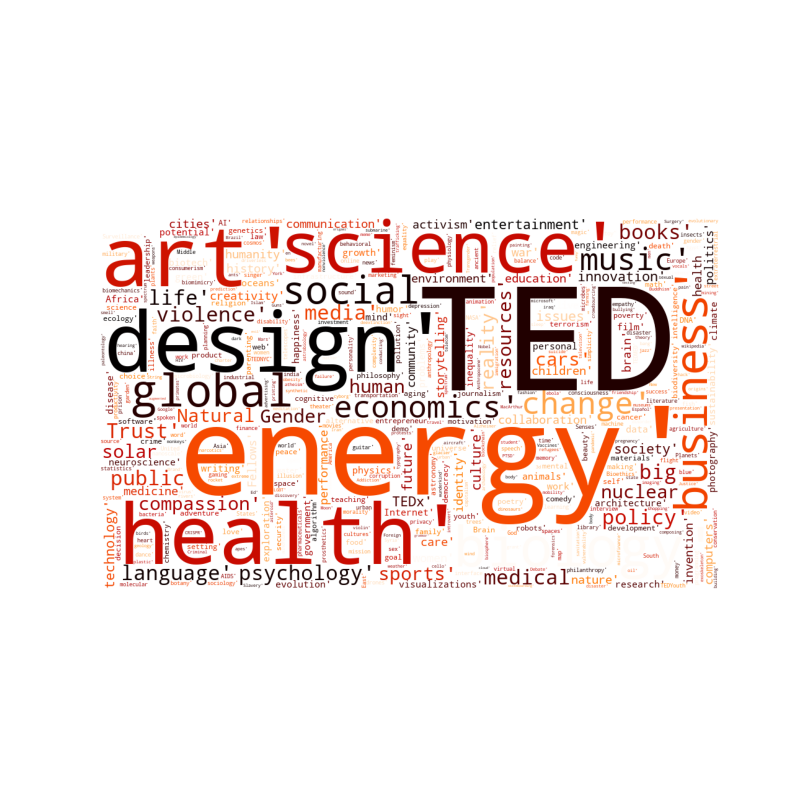
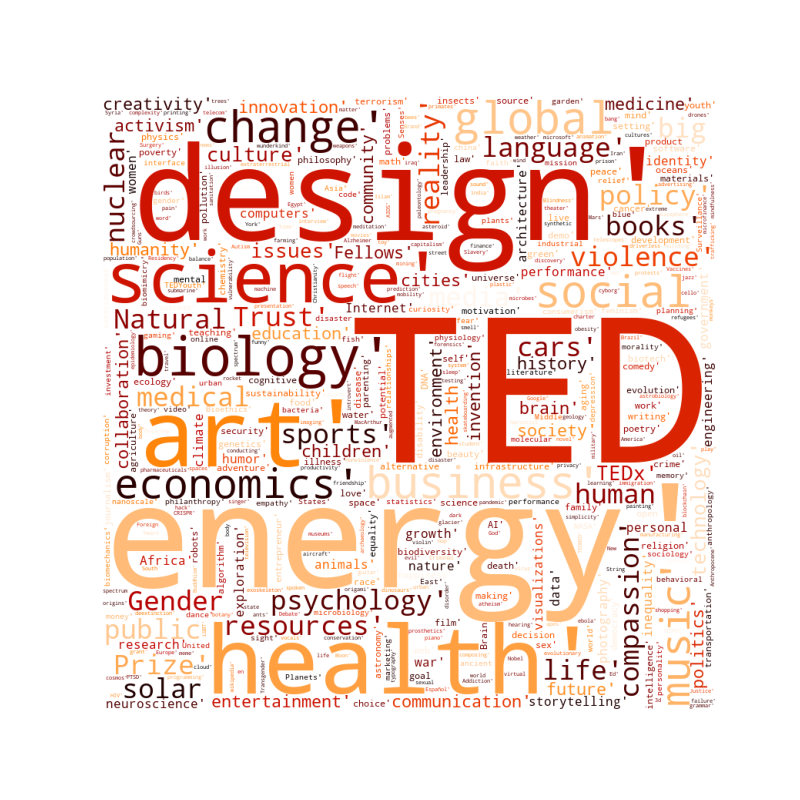
Commit 10: Change Colors , Some edits in word cloud

diff --git a/StaticCharts.py b/StaticCharts.py
@@ -4,18 +4,23 @@ from matplotlib import pyplot as plt
 import plotly.graph_objects as go
 from dataPreperation import get_dataFrame
 from wordcloud import WordCloud
-from PIL import Image
-import numpy as np
+import seaborn as sns
+
 # try again
 data = get_dataFrame()
-red_pallete = ['#ff0000', '#ffa07a', '#f08080', '#fa8072', '#e9967a', '#ff6347', '#cd5c5c', '#ff4500', '#dc143c',
-               '#b22222', '#8b0000', '#800000']
+#palette = sns.color_palette("RdGy",10).as_hex()
+# print(palette)
+
+
+red_pallete = ['#8e0015','#9b1422','#a7272f','#b43b3c','#c04e49','#cd6256','#d97563','#e68970','#f29c7d','#ffb08a']
+
+
 
 
 def mostPopularTalk(df):
     most_popular_talk_by_views = df.sort_values(by="views", ascending=False)
     fig = px.bar(most_popular_talk_by_views[:10], y="title", x="views", text='title', orientation='h',
-                 color='title', color_discrete_sequence=px.colors.sequential.Reds, template="simple_white")
+                 color='title', color_discrete_sequence = red_pallete, template="simple_white")
     fig.update_traces(textposition='inside')
     fig.update_yaxes(showticklabels=False)
     fig.update(layout_showlegend=False)
@@ -29,7 +34,7 @@ def mostPopularTalk(df):
 def popular_talk_pieChart(df):
     popular_df = df[['title', 'comments']].sort_values('comments', ascending=False)
     fig = px.pie(popular_df.iloc[:5], values='comments', names='title', hole=.2,
-                 color_discrete_sequence=px.colors.sequential.RdBu, template="simple_white")  # height = 500)
+                 color_discrete_sequence=red_pallete, template="simple_white")  # height = 500)
     fig.update_layout(
         legend=dict(xanchor="center", orientation="h", x=0.5, y=-0.2),
         margin=dict(l=20, r=20, t=20, b=20))
@@ -40,7 +45,7 @@ def most_popular_speaker(df):
     top_speakers = df.sort_values(by="views", ascending=False)
     top_speakers.drop_duplicates(subset=['main_speaker'], inplace=True)
     fig = px.bar(top_speakers[:10], x="views", y="main_speaker",
-                 orientation='h', color='main_speaker', color_discrete_sequence=px.colors.sequential.Reds,
+                 orientation='h', color='main_speaker', color_discrete_sequence=red_pallete,
                  labels={'title': 'TED talks title', 'views': 'Total number of views'}, text='main_speaker',
                  template="simple_white")
     fig.update_traces(textposition='inside')
@@ -56,7 +61,7 @@ def most_popular_speaker_occupation(df):
     top_occupations = df.sort_values(by="views", ascending=False)
     top_occupations.drop_duplicates(subset=['speaker_occupation'], inplace=True)
     fig = px.bar(top_occupations[:10], x="views", y="speaker_occupation",
-                 orientation='h', color='speaker_occupation', color_discrete_sequence=px.colors.sequential.Reds,
+                 orientation='h', color='speaker_occupation', color_discrete_sequence=red_pallete,
                  labels={'views': 'TED talks Views', 'speaker_occupation': 'Speaker Occupation'},
                  text='speaker_occupation', template="simple_white")
     fig.update_traces(textposition='inside')
@@ -117,10 +122,11 @@ def create_wordCloud_img():
     wordcloud = WordCloud(
         background_color = 'white',
         colormap = 'gist_heat',
-        width = 1000,
-        height = 600,max_words=11100
+        width = 800,
+        height = 800,max_words=11100
     ).generate(str(list_count))
     plt.imshow(wordcloud) # image show
     plt.axis('off') # to off the axis of x and y
     plt.savefig("wordcloud.png")
     plt.show()
+

diff --git a/Callback.py b/Callback.py
@@ -6,7 +6,6 @@ import pandas as pd
 from StaticCharts import *
 
 df = get_dataFrame()
-
 # tabs graphs update call back
 @app.callback(Output('duration_fig1','figure'), [Input("tabs", "active_tab")])
 def switch_tab(at):
@@ -17,7 +16,7 @@ def switch_tab(at):
         flag = True
     duration = df[['title','duration']].sort_values('duration', ascending = flag)
     fig = px.bar(duration.iloc[:10], x='title', y='duration',color='duration',
-                 color_continuous_scale='RdGy',labels={'title':'Title of talk'}, template= 'simple_white', text = 'title')
+                 color_continuous_scale= ['#ffb08a', '#f29c7d', '#e68970', '#d97563', '#cd6256', '#c04e49', '#b43b3c', '#a7272f', '#9b1422', '#8e0015'],labels={'title':'Title of talk'}, template= 'simple_white', text = 'title')
     fig.update_traces(textposition='inside')
     fig.update(layout_coloraxis_showscale=False)
     fig.update_xaxes(showticklabels=False)
@@ -25,6 +24,7 @@ def switch_tab(at):
         margin=dict(l=20, r=20, t=20, b=20),
     )
     return fig
+
 
 
 @app.callback(Output('year-month_fig','figure'), [Input("tabs_ym", "active_tab")])

diff --git a/Components.py b/Components.py
@@ -7,7 +7,7 @@ from dataPreperation import get_dataFrame
 
 df = get_dataFrame()
 
-red_color = '#b22222' #'#800000'
+red_color = '#9b1422' #'#b22222' #'#800000'
 
 config = {'displayModeBar': False, 'autosizable': False}
 
@@ -32,9 +32,6 @@ def mainTitle_desc():
             #"font-weight": "bold"
         })]
     return main_title
-
-
-# def singleCard (): when alaa comes
 
 def bigCards():
     card_group = dbc.CardGroup([
@@ -102,8 +99,7 @@ def wordCloud():
     img_card = [
             html.H4("Top TED searched tags", className="card-text"),
             html.Hr(),
-            html.Br(),
-            html.Img(src=app.get_asset_url("pic.jpg"))
+            html.Img(src=app.get_asset_url("finalwc.png"))
         ]
         #style={ "height": '100%'},
 
@@ -201,3 +197,5 @@ def main_years_slider():
                    ), html.Br()
         ]
    return slider
+
+
